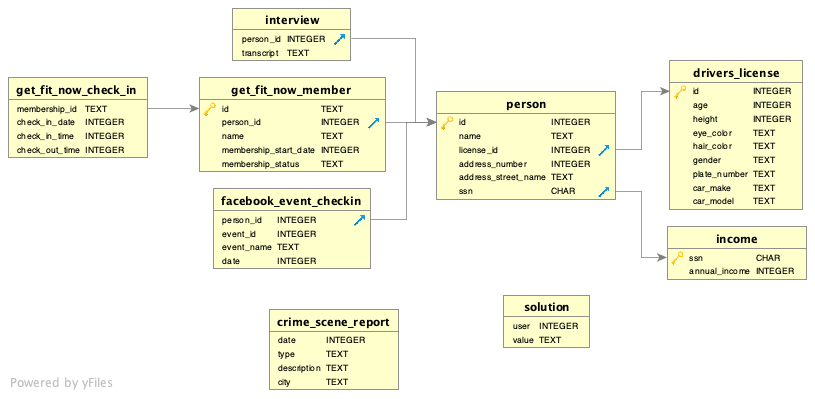
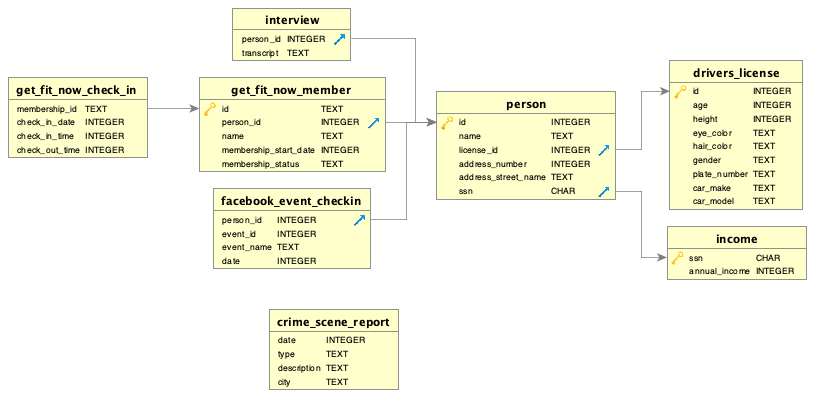
Updated some minor changes

Changed region(s): [[0.6135, 0.7218, 0.7362, 0.8722], [0.0, 0.9323, 0.1227, 0.9925]]

diff --git a/static/script.js b/static/script.js
@@ -26,6 +26,8 @@ function toggleTheme() {
 document.addEventListener("DOMContentLoaded", () => {
   initGame();
   setInterval(updateTimer, 1000);
+  // Sync state periodically to keep elapsed_time updated in the database
+  setInterval(syncState, 30000); // Sync every 30 seconds
 });
 
 async function initGame() {
@@ -40,15 +42,19 @@ function initNotepad() {
   const notepad = document.getElementById("caseNotes");
   if (!notepad) return;
 
-  // Load saved notes
-  const savedNotes = localStorage.getItem("case_notes");
+  // Get the current username to make notes user-specific
+  const userName = document.getElementById("userName")?.textContent || "default";
+  const storageKey = `case_notes_${userName}`;
+
+  // Load saved notes for this user
+  const savedNotes = localStorage.getItem(storageKey);
   if (savedNotes) {
     notepad.value = savedNotes;
   }
 
-  // Save on input
+  // Save on input with user-specific key
   notepad.addEventListener("input", (e) => {
-    localStorage.setItem("case_notes", e.target.value);
+    localStorage.setItem(storageKey, e.target.value);
   });
 }
 

diff --git a/app.py b/app.py
@@ -324,7 +324,7 @@ def submit():
     # But strictly, the system should determine winner. 
     # Let's assume the correct answer is 'Marvin' as per my init_db for R2.
     
-    is_correct = (final_answer.lower() == 'miranda priestly')
+    is_correct = (final_answer.lower() == 'sydney stone')
     
     submission_time = datetime.datetime.now()
     time_taken = user['elapsed_time'] # Approximate, simpler than recalculating exactly right now
@@ -464,14 +464,76 @@ def admin_dashboard():
     for p in participants:
         name = p['name']
         participant_solves = solve_times.get(name, {})
+        
+        # Calculate elapsed time for each round (duration from start to solve, not time of day)
+        round1_elapsed = None
+        round2_elapsed = None
+        start_time = p['round_start_time']
+        
+        if start_time and participant_solves.get(1):
+            try:
+                # Parse start time
+                for fmt in ('%Y-%m-%d %H:%M:%S.%f', '%Y-%m-%d %H:%M:%S'):
+                    try:
+                        start_dt = datetime.datetime.strptime(start_time.split('+')[0], fmt)
+                        break
+                    except ValueError:
+                        continue
+                else:
+                    start_dt = None
+                
+                # Parse solve time for round 1
+                solved_1_str = participant_solves.get(1)
+                for fmt in ('%Y-%m-%d %H:%M:%S.%f', '%Y-%m-%d %H:%M:%S'):
+                    try:
+                        solved_1_dt = datetime.datetime.strptime(solved_1_str.split('+')[0], fmt)
+                        break
+                    except ValueError:
+                        continue
+                else:
+                    solved_1_dt = None
+                
+                if start_dt and solved_1_dt:
+                    round1_elapsed = (solved_1_dt - start_dt).total_seconds()
+            except Exception:
+                pass
+        
+        if start_time and participant_solves.get(2):
+            try:
+                # Parse start time
+                for fmt in ('%Y-%m-%d %H:%M:%S.%f', '%Y-%m-%d %H:%M:%S'):
+                    try:
+                        start_dt = datetime.datetime.strptime(start_time.split('+')[0], fmt)
+                        break
+                    except ValueError:
+                        continue
+                else:
+                    start_dt = None
+                
+                # Parse solve time for round 2
+                solved_2_str = participant_solves.get(2)
+                for fmt in ('%Y-%m-%d %H:%M:%S.%f', '%Y-%m-%d %H:%M:%S'):
+                    try:
+                        solved_2_dt = datetime.datetime.strptime(solved_2_str.split('+')[0], fmt)
+                        break
+                    except ValueError:
+                        continue
+                else:
+                    solved_2_dt = None
+                
+                if start_dt and solved_2_dt:
+                    round2_elapsed = (solved_2_dt - start_dt).total_seconds()
+            except Exception:
+                pass
+        
         stats.append({
             'name': name,
             'round': p['current_round'],
             'time': format_time(p['elapsed_time']),
             'solved': p['solved'],
             'queries': p['query_count'],
-            'round1_time': format_datetime(participant_solves.get(1)),
-            'round2_time': format_datetime(participant_solves.get(2)),
+            'round1_time': format_time(round1_elapsed) if round1_elapsed is not None else '-',
+            'round2_time': format_time(round2_elapsed) if round2_elapsed is not None else '-',
             'start_time': p['round_start_time']
         })
     
@@ -544,14 +606,76 @@ def admin_stats_api():
     for p in participants:
         name = p['name']
         participant_solves = solve_times.get(name, {})
+        
+        # Calculate elapsed time for each round (duration from start to solve, not time of day)
+        round1_elapsed = None
+        round2_elapsed = None
+        start_time = p['round_start_time']
+        
+        if start_time and participant_solves.get(1):
+            try:
+                # Parse start time
+                for fmt in ('%Y-%m-%d %H:%M:%S.%f', '%Y-%m-%d %H:%M:%S'):
+                    try:
+                        start_dt = datetime.datetime.strptime(start_time.split('+')[0], fmt)
+                        break
+                    except ValueError:
+                        continue
+                else:
+                    start_dt = None
+                
+                # Parse solve time for round 1
+                solved_1_str = participant_solves.get(1)
+                for fmt in ('%Y-%m-%d %H:%M:%S.%f', '%Y-%m-%d %H:%M:%S'):
+                    try:
+                        solved_1_dt = datetime.datetime.strptime(solved_1_str.split('+')[0], fmt)
+                        break
+                    except ValueError:
+                        continue
+                else:
+                    solved_1_dt = None
+                
+                if start_dt and solved_1_dt:
+                    round1_elapsed = (solved_1_dt - start_dt).total_seconds()
+            except Exception:
+                pass
+        
+        if start_time and participant_solves.get(2):
+            try:
+                # Parse start time
+                for fmt in ('%Y-%m-%d %H:%M:%S.%f', '%Y-%m-%d %H:%M:%S'):
+                    try:
+                        start_dt = datetime.datetime.strptime(start_time.split('+')[0], fmt)
+                        break
+                    except ValueError:
+                        continue
+                else:
+                    start_dt = None
+                
+                # Parse solve time for round 2
+                solved_2_str = participant_solves.get(2)
+                for fmt in ('%Y-%m-%d %H:%M:%S.%f', '%Y-%m-%d %H:%M:%S'):
+                    try:
+                        solved_2_dt = datetime.datetime.strptime(solved_2_str.split('+')[0], fmt)
+                        break
+                    except ValueError:
+                        continue
+                else:
+                    solved_2_dt = None
+                
+                if start_dt and solved_2_dt:
+                    round2_elapsed = (solved_2_dt - start_dt).total_seconds()
+            except Exception:
+                pass
+        
         stats.append({
             'name': name,
             'round': p['current_round'],
             'time': format_time(p['elapsed_time']),
             'solved': bool(p['solved']),
             'queries': p['query_count'],
-            'round1_time': format_datetime(participant_solves.get(1)),
-            'round2_time': format_datetime(participant_solves.get(2))
+            'round1_time': format_time(round1_elapsed) if round1_elapsed is not None else '-',
+            'round2_time': format_time(round2_elapsed) if round2_elapsed is not None else '-'
         })
     
     sub_list = []

diff --git a/tests/test_app.py b/tests/test_app.py
@@ -78,7 +78,7 @@ class QueryClashTestCase(unittest.TestCase):
         q1 = next(i for i in invs if "committed the murder" in i['prompt'])
         
         # Answer Q1
-        self.app.post('/api/verify', json={'id': q1['id'], 'answer': 'Jeremy Bowers'})
+        self.app.post('/api/verify', json={'id': q1['id'], 'answer': 'Damon Salvitor'})
         
         # Check State (Should be R2 now since R1 only has 1 investigation)
         rv = self.app.get('/api/state')
@@ -88,15 +88,15 @@ class QueryClashTestCase(unittest.TestCase):
         self.login()
         # Fast forward to submission
         
-        # Let's just submit 'Miranda Priestly'.
-        rv = self.app.post('/submit', data={'final_answer': 'Miranda Priestly'})
+        # Let's just submit 'Sydney Stone'.
+        rv = self.app.post('/submit', data={'final_answer': 'Sydney Stone'})
         self.assertIn(b'COMPLETED', rv.data) # Check for success message
         
         # Check DB
         db = get_db()
         sub = db.execute('SELECT * FROM submissions WHERE name = "TestAgent"').fetchone()
         self.assertIsNotNone(sub)
-        self.assertEqual(sub['final_answer'], 'Miranda Priestly')
+        self.assertEqual(sub['final_answer'], 'Sydney Stone')
 
 if __name__ == '__main__':
     with open('test_output.txt', 'w') as f:

diff --git a/init_db.py b/init_db.py
@@ -81,10 +81,10 @@ def init_db():
 
     # Populate Investigations (SQL Murder Mystery Flow)
     # Round 1: Finding the murderer
-    c.execute("INSERT INTO investigations (round, prompt, correct_answer) VALUES (1, 'Who committed the murder on Jan 15, 2018 in SQL City?', 'Jeremy Bowers')")
+    c.execute("INSERT INTO investigations (round, prompt, correct_answer) VALUES (1, 'Who committed the murder on Jan 15, 2018 in SQL City?', 'Damon Salvitor')")
     
     # Round 2: Finding the mastermind
-    c.execute("INSERT INTO investigations (round, prompt, correct_answer) VALUES (2, 'Who hired the murderer? (Check the killer''s interview for clues)', 'Miranda Priestly')")
+    c.execute("INSERT INTO investigations (round, prompt, correct_answer) VALUES (2, 'Who hired the murderer? (Check the killer''s interview for clues)', 'Sydney Stone')")
 
     # Production User
     c.execute("INSERT INTO participants (name, password, round_start_time) VALUES (?, ?, ?)", 
